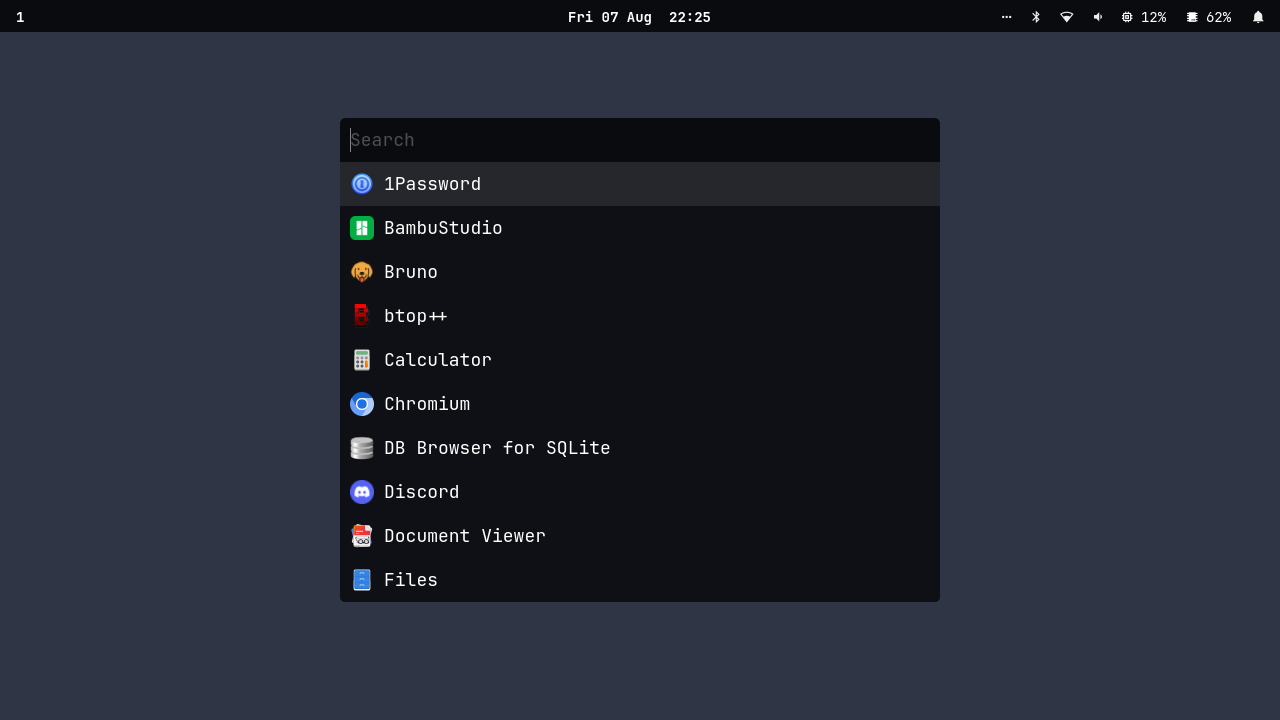
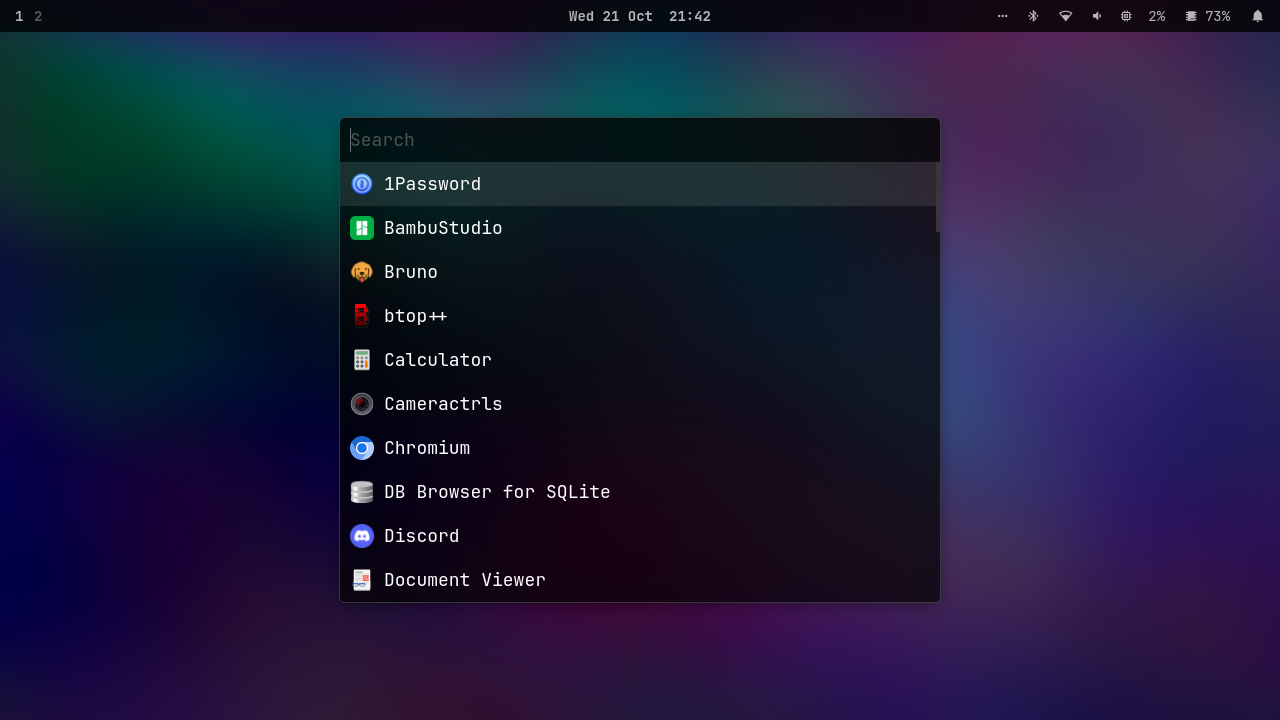
Refresh the README screenshots

diff --git a/README.md b/README.md
@@ -4,7 +4,16 @@ A small, personal desktop shell for Hyprland, written in Rust with GTK 4.
 
 ![Varde application launcher](docs/images/varde-launcher.png)
 
-![Varde notification center](docs/images/varde-notifications.png)
+<details>
+<summary>More screenshots</summary>
+
+![Varde clipboard history with an image preview](docs/images/varde-clipboard.png)
+
+![Varde calendar popover and notification popups](docs/images/varde-popups.png)
+
+![Varde notification center with grouped, critical, progress, and media notifications](docs/images/varde-notifications.png)
+
+</details>
 
 Varde provides a status bar, application, action, and clipboard launchers,
 notifications, workspace controls, system status, idle inhibition, privacy
